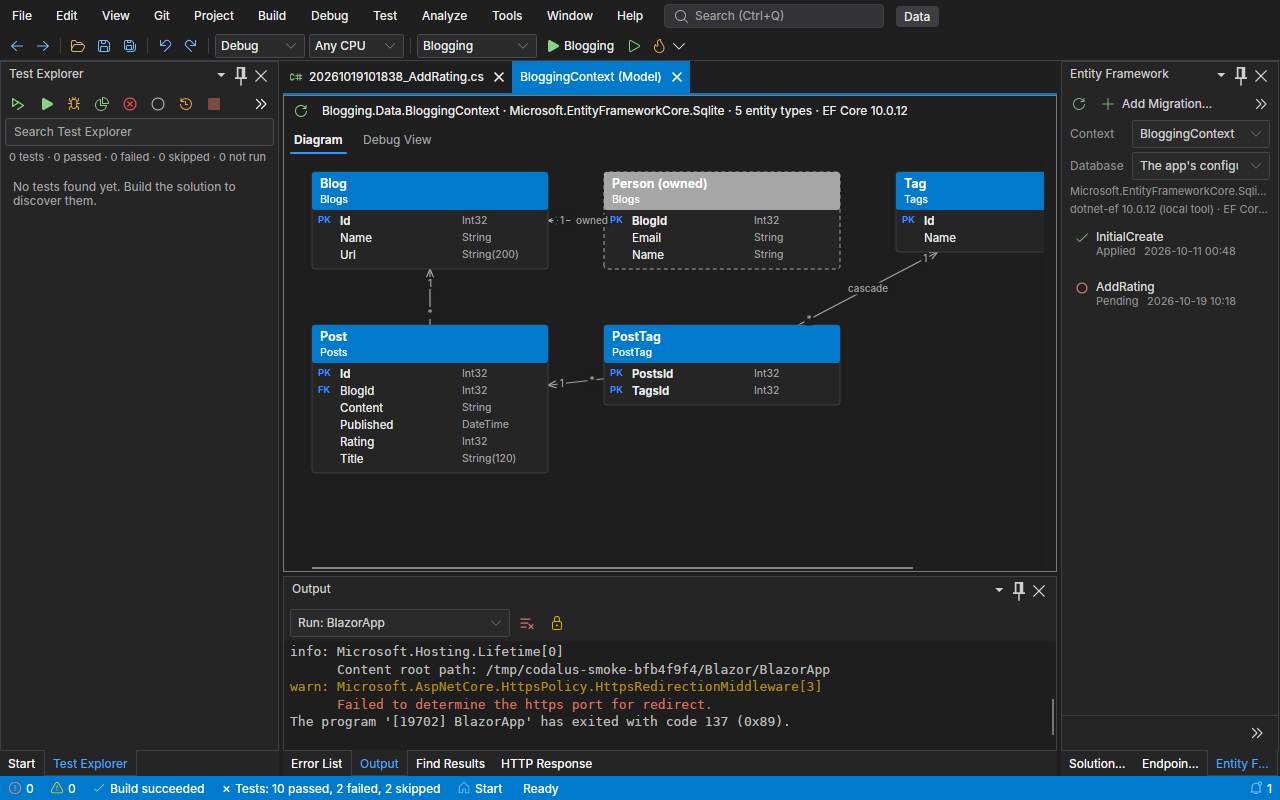
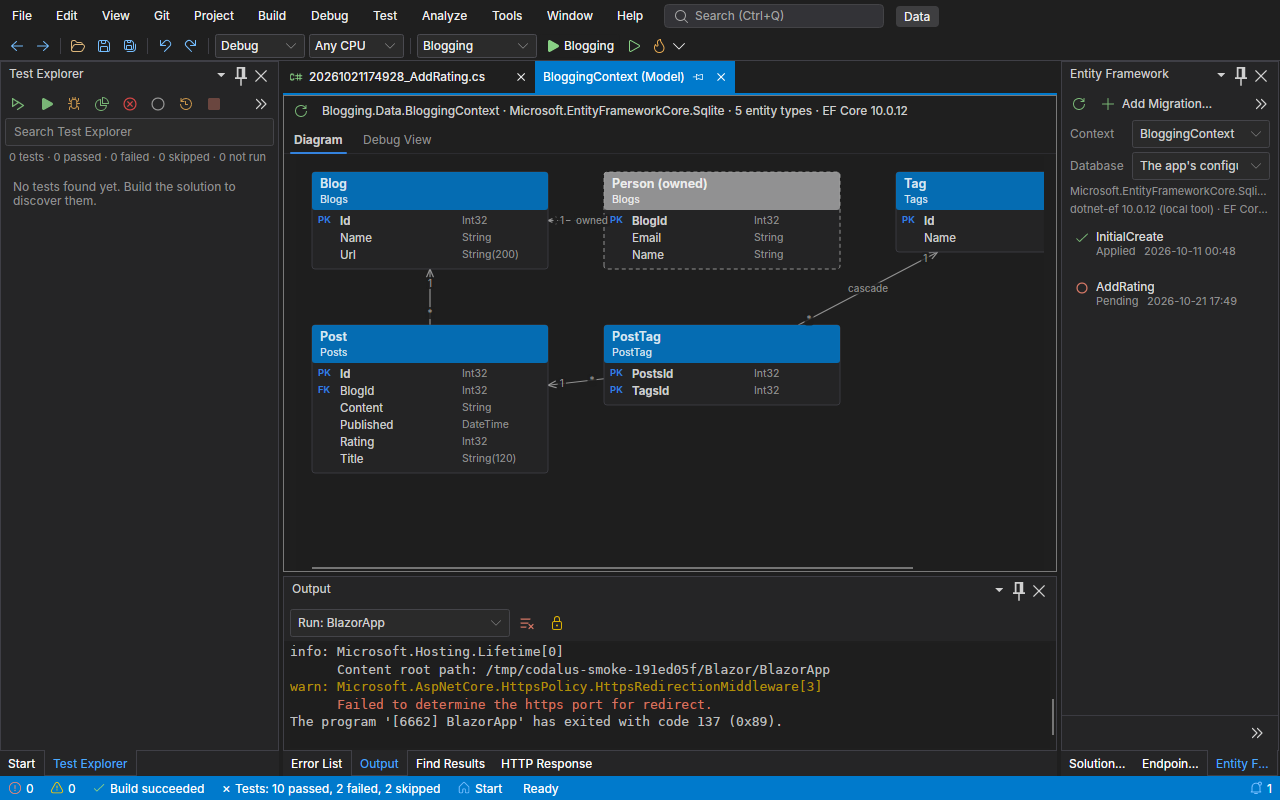
Website: the EF Core picture's tabs, and the pictures in their earlier states
ef-core.png shows the EF model document, whose Diagram and Debug View tabs
are a TabControl, so it now has the control set's line under its strip too;
the last refresh missed it.

The four pictures refreshed before came from a run without the steps the
earlier pictures had been taken after: web-http.png and profiler.png showed
the Start window instead of the Test Explorer, and find-in-files.png and
code-search.png had lost the status bar's error and warning counts. All five
are now from one smoke run of this branch on Linux under Xvfb, at the site's
1280x800 in Classic Dark, with those steps: CODALUS_SMOKE_ONLY=shell.window,
shell.themes, projects.open, language.ready, editor.highlighting,
editor.diagnostics, editor.navigation, editor.findInFiles,
navigation.codeSearch, testing.discover, testing.run, web.http, blazor.razor,
profiler.cpu and data.efMigrations (editor.completion left out: right before
Find in Files it left a stale error count and no inlay hint on the line it
edited). So the side panels, the status bars and the bottom panels are as
before (the Test Explorer, the counts, the tests' results, the Blazor app's
output under EF Core), and the tab strips are what changed. The roadmap's log
entry lists EF Core with the others. tests/Codalus.Website.Tests passes (12,
with the export).

diff --git a/docs/roadmap.md b/docs/roadmap.md
@@ -3080,4 +3080,4 @@ These are the maintainer decisions this plan depends on. Update the status colum
 - 2026-10-21: the linux-arm64 package's smoke test crashed in its first-run setup (develop run 39513048761), with a segmentation fault the core dump placed in Skia's `SkMemoryStream::read`, called from `SkiaTypeface.TryGetStream`, copying a font file that had been unmapped: the start-window crash of 2026-10-16 again, from a blocking collection on another thread (`GCLatencyMode.Batch` ruled out only background ones). The shell now installs its own system font collection (`ShellSystemFonts`, under Avalonia's `fonts:SystemFonts` key, mirroring its internal `SystemFontCollection`), which makes the same synthetic bold and italic faces as Avalonia's (the nearest face with Skia's simulations, created again from a copy of the font file) but copies the file with Skia's stream kept alive until the read is done; it reaches the font manager's and the Skia typeface's unstable members through `UnsafeAccessor`. A first attempt asked the font manager for the style instead of copying the file, and drew a SemiBold in the family's wider Bold face (the setup window's text cut off on #99's CI). It also files a face the platform slanted or emboldened under the style the platform reports, not its file's: an italic drawn first had become the family's regular face. The Batch setting is gone. `TODO(issue)`: drop the collection once Avalonia's `TryGetStream` keeps its stream alive.
 - 2026-10-21: a Blazor WebAssembly page opens only after the debugging proxy's handshake ([ADR 0026's amendment](adr/0026-browser-debugging.md#amendment-2026-10-21-the-page-opens-after-the-proxys-handshake)). js-debug opened the page as soon as it had attached, and on a loaded machine the app's document came before the proxy had registered `globalThis.dotnetDebugger` for it. The runtime then started without pausing for the proxy, which never reported it, and no C# breakpoint bound: this is the stall in 2026-10-16's `blazor.wasmDebug` entry (its js-debug log shows the order), and by their symptoms the 10-minute `BlazorWasmTests` failures on Linux CI too. `JsDebugAdapter` now has js-debug leave the page blank and opens it itself once the page's session has started. `BrowserDebugTests` reproduces the race with a stand-in proxy whose handshake answers late. The smoke step's second start and that entry's TODO stay until the linux-arm64 smoke test has passed without the second start.
 - 2026-10-21: `LiveTreeShellTests` failed on Linux (#101's run 39550972490): the app's live agent didn't connect (session waiting, the app running), and the app printed "Codalus previewer agent: Connection refused" once. Every plan of a run went through `RunService.ProgramPlan`, whose `AddLiveAgent` gives an Avalonia or WPF app a new `LiveSession` and ends the last one (the only place a session's listener stops). Start Without Debugging and Start Debugging also check the HTTPS development certificate beside the start (`OfferDevCertificateAsync`, not awaited), and the check made a plan only to read `ASPNETCORE_URLS`, on every start of a project without an https URL. The build host answers the two `project/runInfo` requests concurrently; when the check's plan came last, its session replaced the launched one and stopped its listener, so the agent's one attempt was refused and `Live` waited for an app that never came. `RunService.PlanAsync` (both overloads) now has no effects, and only `LaunchPlanAsync` runs the hook: `StartAsync` and every caller that starts the plan (debugging, multiple startup projects, the terminal, folder launch configurations, profiling, Aspire, one framework of a multi-targeted project). A plan made to read it (the certificate check, a `.http` request's host address, the smoke test) can't end a running app's session, and a new reader gets the plan without effects by its plain name; a start that used it would only lack the live agent, which the live tree tests catch. `AddLiveAgent` swaps `Live` with `Interlocked.Exchange`, so of two starts at once each ends the session it replaced and none stays open outside `Live` (a read and then a write ended the same old session twice and left one of the new sessions, and its listener, open); which session `Live` ends on is the last swap's either way, and only the split above keeps a plan nobody launched out of it. `LiveTreeShellTests` now orders the two plans as on CI (the first to reach the hook waits until a second has run, or until the certificate check is over; no sleeps), counts the hook's calls (one per start) and names `Live`'s port and each session's. With the old behavior it failed 4 runs of 4 with the CI's symptom (two calls, the app refused on the launched session's port, `Live` waiting on the other); with the fix it passes. `RunPlanTests` checks that only a start's plan goes through the hook.
-- 2026-10-21: two of M34h's open control-set items built for 0.6 (task #78; [m34h](checkpoints/m34h.md#the-control-set), [design/controls.md](design/controls.md#classes)). A combo box's list draws the design's check beside the chosen row in a 16 px column kept on every row (`ComboBoxItem` gets a control theme of its own, since Fluent's template is one presenter); the editor's navigation bar and history boxes (`ComboBox.history`: Find and Replace's Find what and Replace with, whose lists are what was typed before) opt out on purpose, recorded in the design's differences, and the other editable ones (Look in, File types, Counters' process box) keep the check. Every tab strip gets the design's line under it, in a new token, `Shell.ViewTabs.Rule`, in all sixteen themes (the mockups' soft border, which wasn't a token: Classic's and Harbor's values from the mockups, the derived families' from their `Shell.Grid.Rule` and Harbor's High contrast), covered by the selected tab's underline: `TabControl` gets a control theme (Fluent 12.1.3's template with the strip in a border that draws the line, on top for a bottom strip), and the four `TabStrip`s used as tabs (Find Results' pages, HTTP Response, Find and Replace, Code Search) take a new `TabStrip.viewTabs` class in place of their own item styles, so Find and Replace's and Code Search's tabs now have the set's look (Body size, 28 px, the accent underline). The gallery shows an open list, a history, a `TabStrip.viewTabs` and a bottom strip, in a window tall enough for the whole page (1280 × 1650, which `ControlSetTests` checks). The website's Find in Files, Code Search, HTTP and profiler pictures, which show these strips, are refreshed from a Linux smoke run of the change (Classic Dark, 1280 × 800).
+- 2026-10-21: two of M34h's open control-set items built for 0.6 (task #78; [m34h](checkpoints/m34h.md#the-control-set), [design/controls.md](design/controls.md#classes)). A combo box's list draws the design's check beside the chosen row in a 16 px column kept on every row (`ComboBoxItem` gets a control theme of its own, since Fluent's template is one presenter); the editor's navigation bar and history boxes (`ComboBox.history`: Find and Replace's Find what and Replace with, whose lists are what was typed before) opt out on purpose, recorded in the design's differences, and the other editable ones (Look in, File types, Counters' process box) keep the check. Every tab strip gets the design's line under it, in a new token, `Shell.ViewTabs.Rule`, in all sixteen themes (the mockups' soft border, which wasn't a token: Classic's and Harbor's values from the mockups, the derived families' from their `Shell.Grid.Rule` and Harbor's High contrast), covered by the selected tab's underline: `TabControl` gets a control theme (Fluent 12.1.3's template with the strip in a border that draws the line, on top for a bottom strip), and the four `TabStrip`s used as tabs (Find Results' pages, HTTP Response, Find and Replace, Code Search) take a new `TabStrip.viewTabs` class in place of their own item styles, so Find and Replace's and Code Search's tabs now have the set's look (Body size, 28 px, the accent underline). The gallery shows an open list, a history, a `TabStrip.viewTabs` and a bottom strip, in a window tall enough for the whole page (1280 × 1650, which `ControlSetTests` checks). The website's Find in Files, Code Search, HTTP, profiler and EF Core pictures, which show these strips (EF Core's is the model document's Diagram and Debug View tabs), are refreshed from a Linux smoke run of the change (Classic Dark, 1280 × 800) with the steps before them that the earlier pictures had (the Error List's counts, the Test Explorer's run, the Blazor app's output), so only the strips changed.
